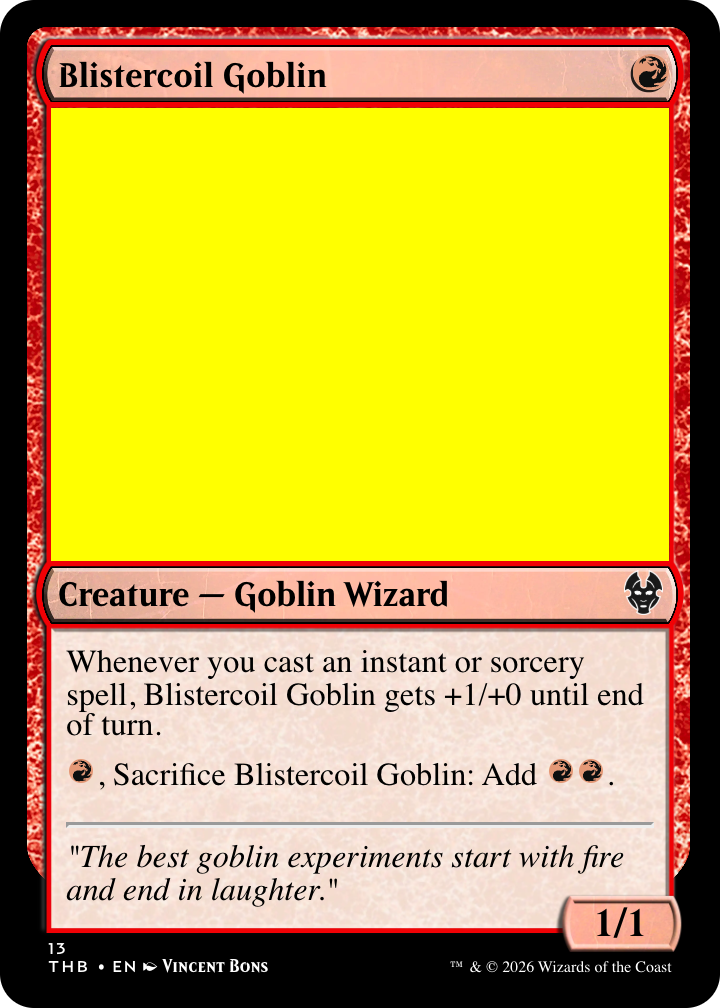
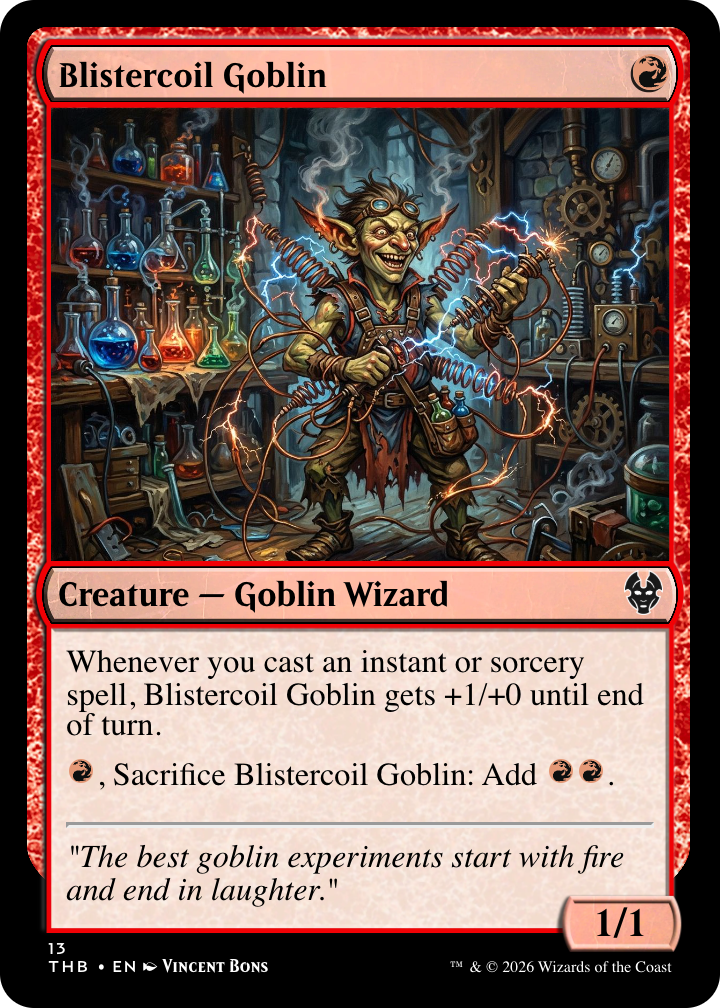
Add multipart upload endpoint for custom card art
New POST /api/render/upload accepts a card JSON part and an optional
image file part. Uploaded images are converted to data URIs and injected
into the card data, allowing users to provide their own art without
hosting it externally. Updated example render with new Blistercoil
Goblin art.

diff --git a/app/src/main/kotlin/com/wingedsheep/mtgcardrenderer/controller/CardRenderController.kt b/app/src/main/kotlin/com/wingedsheep/mtgcardrenderer/controller/CardRenderController.kt
@@ -7,8 +7,11 @@ import io.swagger.v3.oas.annotations.Parameter
 import io.swagger.v3.oas.annotations.media.Content
 import io.swagger.v3.oas.annotations.responses.ApiResponse
 import io.swagger.v3.oas.annotations.tags.Tag
+import org.springframework.http.MediaType
 import org.springframework.http.ResponseEntity
 import org.springframework.web.bind.annotation.*
+import org.springframework.web.multipart.MultipartFile
+import java.util.Base64
 
 @RestController
 @RequestMapping("/api")
@@ -19,7 +22,8 @@ class CardRenderController(
     @PostMapping("/render", produces = ["image/png", "image/jpeg"])
     @Operation(
         summary = "Render an MTG card image",
-        description = "Takes a Scryfall-format card JSON and renders it as an image in the specified format.",
+        description = "Takes a Scryfall-format card JSON and renders it as an image. " +
+            "Card art can be referenced via a URL in image_uris.art_crop within the JSON.",
         responses = [
             ApiResponse(
                 responseCode = "200",
@@ -47,6 +51,85 @@ class CardRenderController(
         scale: Int
     ): ResponseEntity<ByteArray> {
         val imageBytes = renderService.renderCard(cardJson, format, scale)
+        return imageResponse(imageBytes, format)
+    }
+
+    @PostMapping(
+        "/render/upload",
+        consumes = [MediaType.MULTIPART_FORM_DATA_VALUE],
+        produces = ["image/png", "image/jpeg"]
+    )
+    @Operation(
+        summary = "Render an MTG card image with uploaded art",
+        description = "Takes card JSON and an optional card art image file. " +
+            "The uploaded image overrides any art URL in the JSON.",
+        responses = [
+            ApiResponse(
+                responseCode = "200",
+                description = "Rendered card image",
+                content = [
+                    Content(mediaType = "image/png"),
+                    Content(mediaType = "image/jpeg")
+                ]
+            ),
+            ApiResponse(responseCode = "400", description = "Invalid card JSON"),
+            ApiResponse(responseCode = "500", description = "Rendering failed")
+        ]
+    )
+    fun renderCardWithUpload(
+        @RequestPart("card")
+        @Parameter(description = "Card data in Scryfall JSON format")
+        cardJson: String,
+
+        @RequestPart("image", required = false)
+        @Parameter(description = "Card art image file (PNG, JPG, or WEBP)")
+        image: MultipartFile?,
+
+        @RequestParam(defaultValue = "PNG")
+        @Parameter(description = "Output image format")
+        format: ImageFormat,
+
+        @RequestParam(defaultValue = "3")
+        @Parameter(description = "Render scale factor (higher = larger image, default 3 produces ~720px wide)")
+        scale: Int
+    ): ResponseEntity<ByteArray> {
+        val finalJson = if (image != null) {
+            injectImageAsDataUri(cardJson, image)
+        } else {
+            cardJson
+        }
+        val imageBytes = renderService.renderCard(finalJson, format, scale)
+        return imageResponse(imageBytes, format)
+    }
+
+    private fun injectImageAsDataUri(cardJson: String, image: MultipartFile): String {
+        val mimeType = image.contentType ?: "image/png"
+        val base64 = Base64.getEncoder().encodeToString(image.bytes)
+        val dataUri = "data:$mimeType;base64,$base64"
+
+        // Simple JSON manipulation: inject/replace art_crop in image_uris
+        val json = cardJson.trimEnd()
+
+        // If image_uris already exists, replace art_crop
+        if (json.contains("\"image_uris\"")) {
+            return if (json.contains("\"art_crop\"")) {
+                json.replace(Regex(""""art_crop"\s*:\s*"[^"]*""""), """"art_crop":"$dataUri"""")
+            } else {
+                json.replace(Regex(""""image_uris"\s*:\s*\{"""), """"image_uris":{"art_crop":"$dataUri",""")
+            }
+        }
+
+        // No image_uris block — add one before the closing brace
+        return json.replaceLast("}", ""","image_uris":{"art_crop":"$dataUri"}}""")
+    }
+
+    private fun String.replaceLast(old: String, new: String): String {
+        val index = lastIndexOf(old)
+        if (index < 0) return this
+        return substring(0, index) + new + substring(index + old.length)
+    }
+
+    private fun imageResponse(imageBytes: ByteArray, format: ImageFormat): ResponseEntity<ByteArray> {
         return ResponseEntity.ok()
             .contentType(format.mediaType)
             .header("Content-Disposition", "inline; filename=card.${format.extension}")
